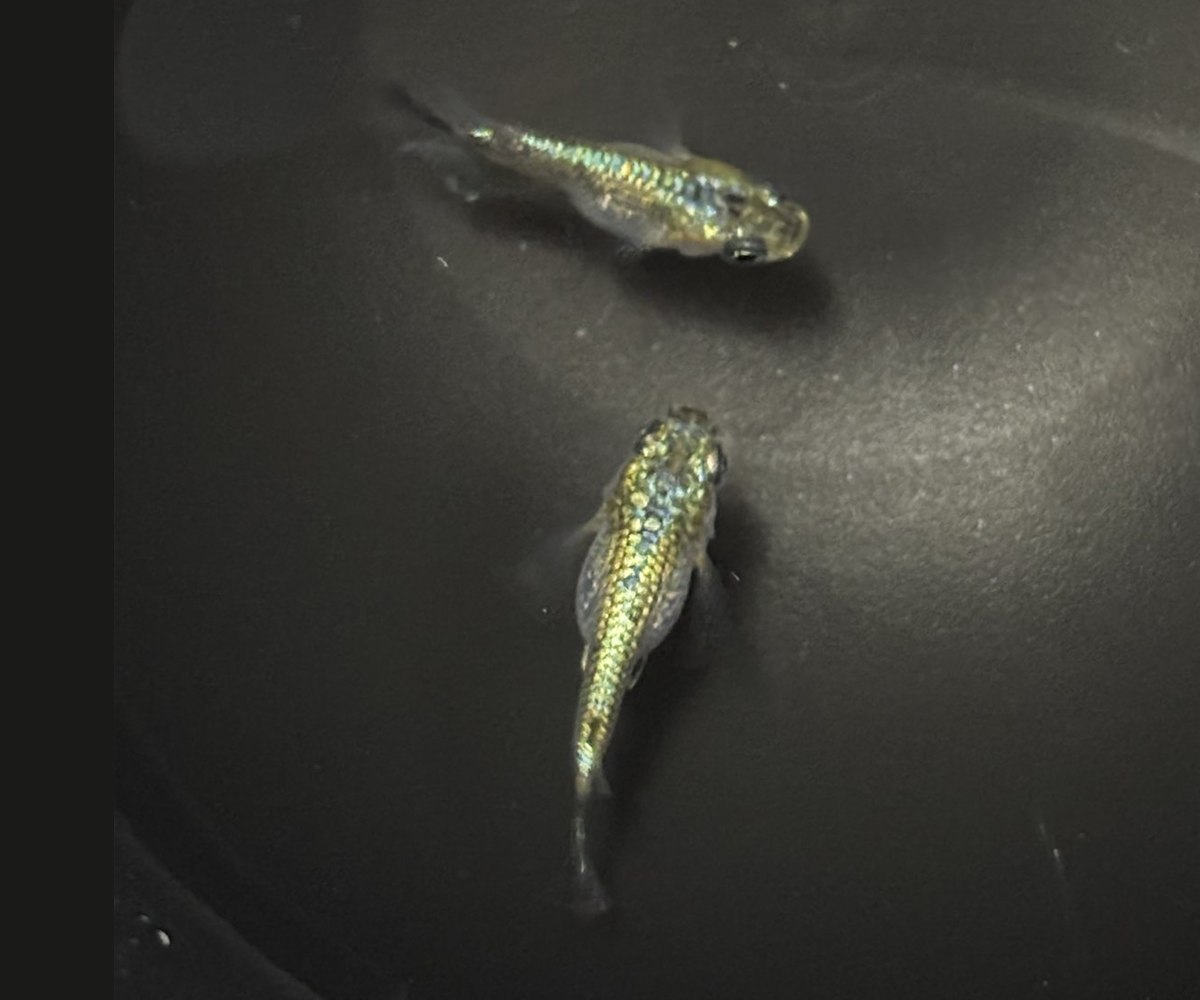
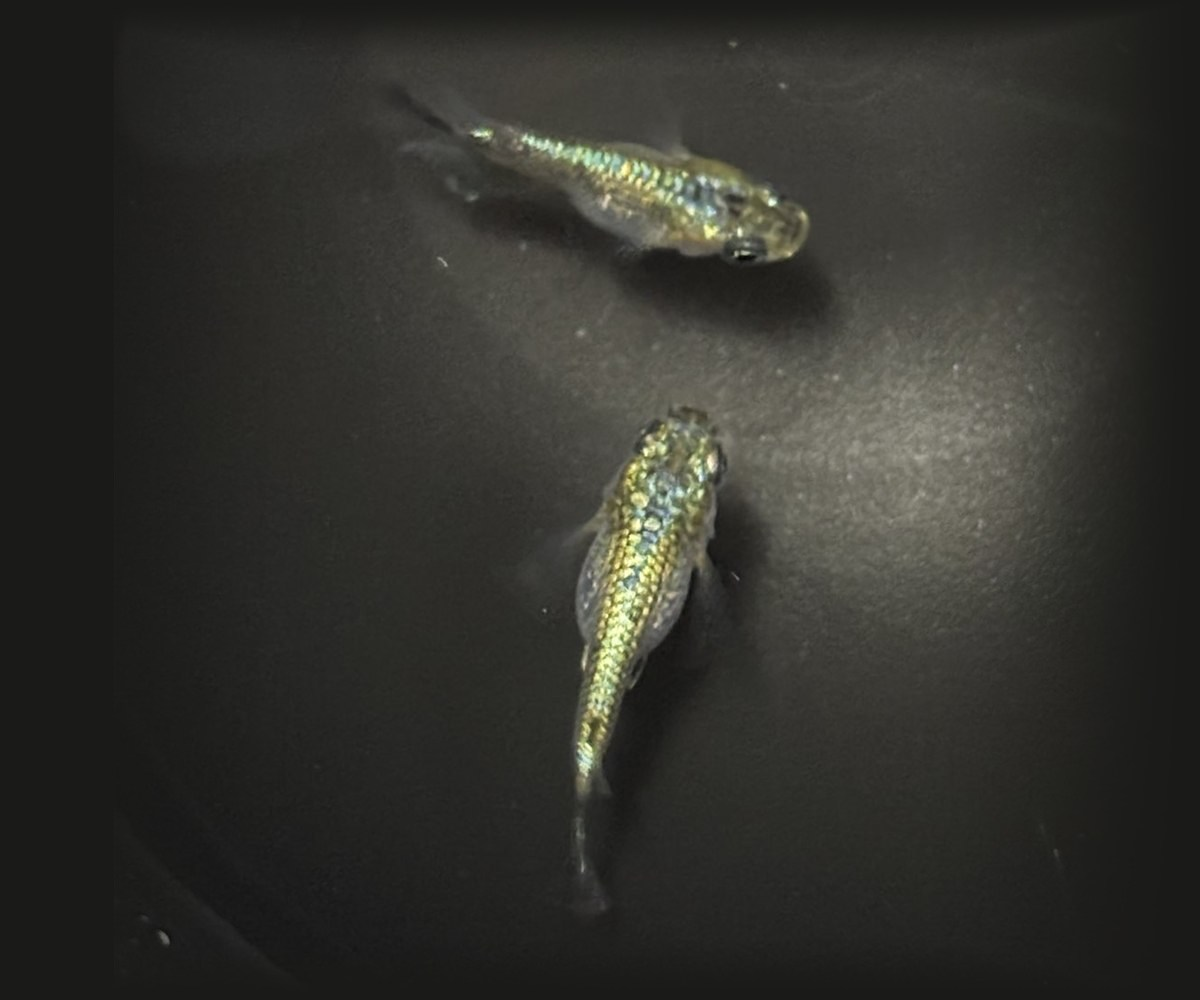
紹介文を２行に変更、トップページ写真3枚にぼかしの焼き込み方式に変更、3枚目の写真をスライドに追加

Changed region(s): [[0.3083, 0.0, 1.0, 0.713]]

diff --git a/css/style.css b/css/style.css
@@ -187,17 +187,8 @@ a {
   object-fit: cover; /* 動画など、縦横比の違うスライドを足しても枠いっぱいに収める */
   opacity: 0;
   transition: opacity 0.5s ease-in-out; /* 消えるとき：0.5秒 */
-  /* ふちを黒い帯に向かってぼかす（2枚とも同じ）。メダカは左右とも端から12%以上内側にあるので、
-     左右のぼかしは12%まで。上下は余白を7%以上とってあるので、上2.5%・下6%まで。
-     いずれもメダカにかからないようにしている */
-  -webkit-mask-image:
-    linear-gradient(to right, transparent 0, #000 12%, #000 88%, transparent 100%),
-    linear-gradient(to bottom, transparent 0, #000 2.5%, #000 94%, transparent 100%);
-  -webkit-mask-composite: source-in;
-  mask-image:
-    linear-gradient(to right, transparent 0, #000 12%, #000 88%, transparent 100%),
-    linear-gradient(to bottom, transparent 0, #000 2.5%, #000 94%, transparent 100%);
-  mask-composite: intersect;
+  /* ふちを黒い帯になじませるぼかしは、写真そのものに焼き込んである（img/web/*-hero.jpg）。
+     CSSのマスクでぼかすと、四隅が丸く欠けて見えるため。元の（ぼかし前の）写真は img/web/src/ */
 }
 
 /* 出てくるとき：前の写真が消え終わる0.5秒後から、0.5秒かけて出てくる */
@@ -271,6 +262,11 @@ a {
 .intro p {
   margin: 0 auto 28px;
   max-width: 37em;
+}
+
+/* 紹介文は、文節の途中で折り返さない（狭い画面では文節の切れ目で折り返す） */
+.phrase {
+  display: inline-block;
 }
 
 .intro__buttons {

diff --git a/index.html b/index.html
@@ -30,15 +30,15 @@
       <div class="hero__slides">
         <img class="hero__slide is-active" src="img/web/amaterasu3-hero.jpg" alt="黒い容器を上から撮影した、アマテラスダルマのメダカ3匹">
         <img class="hero__slide" src="img/web/taakoizuguriin1-hero.jpg" alt="黒い容器を上から撮影した、ターコイズグリーンのメダカ2匹">
+        <img class="hero__slide" src="img/web/mikkusu4-hero.jpg" alt="黒い容器を上から撮影した、ダルマミックスのメダカ3匹">
       </div>
       <p class="hero__copy">水の中の、<br>ちいさな宝石。</p>
     </figure>
 
     <section class="intro container">
       <p>
-        ダルマメダカが大好きで、心を込めて大切に育てています。<br>
-        ずんぐりとした体つきと、一匹ごとに違う色や模様の美しさをご覧ください。<br>
-        気に入った子がいたら、ゆっくり見ていってください。
+        <span class="phrase">ダルマメダカ専門の</span><span class="phrase">お店です。</span><br>
+        <span class="phrase">丸みのある</span><span class="phrase">ダルマ体形と</span><span class="phrase">一匹ずつ</span><span class="phrase">違う色合いを、</span><span class="phrase">ゆっくり</span><span class="phrase">ご覧ください。</span>
       </p>
       <div class="intro__buttons">
         <a class="btn btn--primary" href="varieties.html">品種紹介を見る</a>
